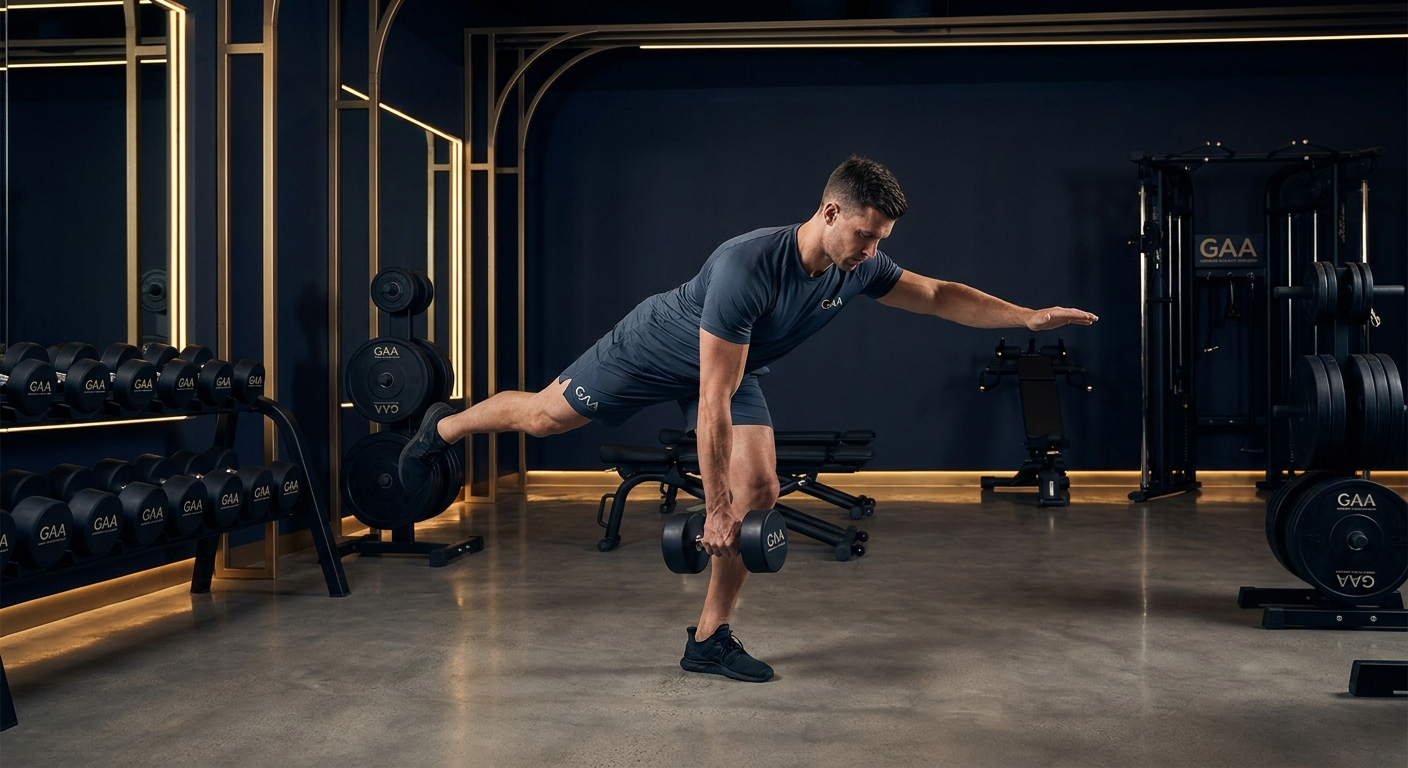
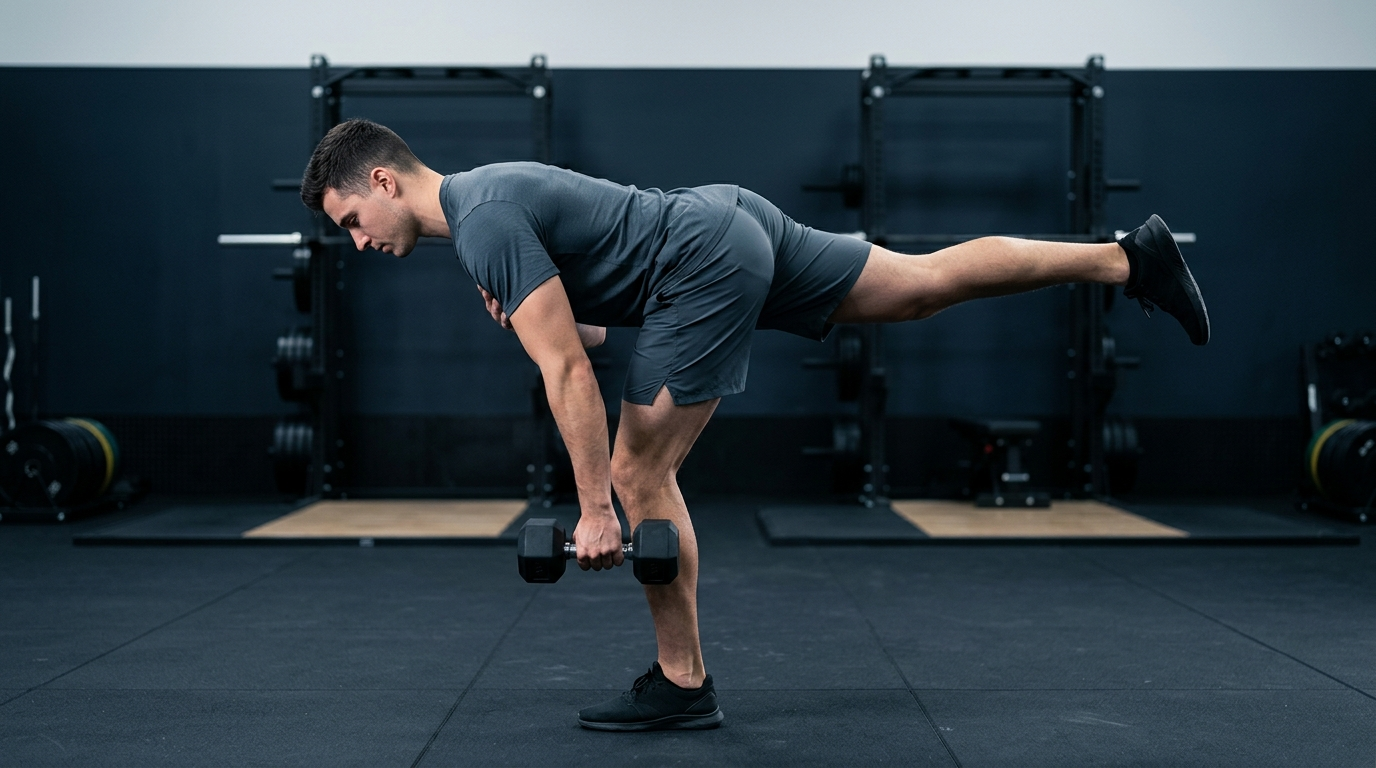
feat(exercise-media): roll out batch 7 Forge Athletic photography for hip thrusts, lat pulldowns, tricep pushdowns, SL RDLs, and prone cobras

diff --git a/lib/nasm-generated-images.ts b/lib/nasm-generated-images.ts
@@ -56,7 +56,7 @@ export const VERIFIED_GAA_EXERCISE_IMAGES: Record<string, string> = {
   "tuck jump": "https://img.youtube.com/vi/-bnJGikRGsM/hqdefault.jpg",
   "self myofascial release smr hamstrings": "https://img.youtube.com/vi/_M29fhv3LoI/hqdefault.jpg",
   "push up plus": "https://img.youtube.com/vi/qw-9P3R37vU/hqdefault.jpg",
-  "single leg romanian deadlift": "https://img.youtube.com/vi/6pEL3KxnlEo/hqdefault.jpg",
+  "single leg romanian deadlift": "/images/exercises/single-leg-romanian-deadlift.jpg",
   "self myofascial release smr piriformis": "https://img.youtube.com/vi/XS5hY6vBi6g/hqdefault.jpg",
   "single leg throw and catch transverse 1": "https://img.youtube.com/vi/w1shWW8WCN0/hqdefault.jpg",
   "self myofascial release smr peroneals": "https://img.youtube.com/vi/o0sqnX6FMzk/hqdefault.jpg",
@@ -163,7 +163,10 @@ export const VERIFIED_GAA_EXERCISE_IMAGES: Record<string, string> = {
   "single leg romanian deadlift curl to overhead press": "https://img.youtube.com/vi/CqLKOZCOFLU/hqdefault.jpg",
   "dumbbell combination curl": "https://img.youtube.com/vi/5l9fg7Cml0Y/hqdefault.jpg",
   "quadruped march": "https://img.youtube.com/vi/-atsQczv7N4/hqdefault.jpg",
-  "floor prone cobra": "https://img.youtube.com/vi/keErJXdp2lE/hqdefault.jpg",
+  "floor prone cobra": "/images/exercises/floor-prone-cobra.jpg",
+  "barbell hip thrust": "/images/exercises/barbell-hip-thrust.jpg",
+  "lat pulldown": "/images/exercises/lat-pulldown.jpg",
+  "triceps pushdown": "/images/exercises/triceps-pushdown.jpg",
   "single leg balance reach multiplanar": "https://img.youtube.com/vi/Mo4P9Y_AQt8/hqdefault.jpg",
   "ball crunch": "https://img.youtube.com/vi/QFLftqPWjoI/hqdefault.jpg",
   "hammer curl to lateral raise": "https://img.youtube.com/vi/4P6tmzTV01A/hqdefault.jpg",
@@ -461,6 +464,14 @@ const EXERCISE_ALIAS_MAP: Record<string, string> = {
   'single leg glute bridge': 'single leg floor bridge',
   'band bodyweight wall slides': 'activation ball prone shoulder press',
   'wall slides': 'activation ball prone shoulder press',
+  'hip thrust': 'barbell hip thrust',
+  'cable lat pulldown': 'lat pulldown',
+  'cable triceps pushdown': 'triceps pushdown',
+  'cable pushdown': 'triceps pushdown',
+  'tricep pushdown': 'triceps pushdown',
+  'prone cobra': 'floor prone cobra',
+  'single leg rdl': 'single leg romanian deadlift',
+  'sl rdl': 'single leg romanian deadlift',
 }
 
 const GAA_IMAGE_CACHE = new Map<string, string | null>()

diff --git a/lib/clinical-kinetic-warmup.test.ts b/lib/clinical-kinetic-warmup.test.ts
@@ -45,7 +45,7 @@ describe('Clinical Kinetic Warmup & OHSA Integration', () => {
     expect(resolveGaaExerciseImage('Static Standing TFL / ITB Stretch')).toBe('https://img.youtube.com/vi/h_8VHKvi1zo/hqdefault.jpg')
 
     // Warmup Activate & Integrate
-    expect(resolveGaaExerciseImage('Glute Bridge & Floor Prone Cobra')).toBe('https://img.youtube.com/vi/keErJXdp2lE/hqdefault.jpg')
+    expect(resolveGaaExerciseImage('Glute Bridge & Floor Prone Cobra')).toBe('/images/exercises/floor-prone-cobra.jpg')
     expect(resolveGaaExerciseImage('Squat to Scaption / Multi-Planar Reach')).toBe('/images/exercises/squat-to-overhead-reach.jpg')
     expect(resolveGaaExerciseImage('Isolated Anterior Tibialis Dorsiflexion')).toBe('https://img.youtube.com/vi/CeFbXhifvvA/hqdefault.jpg')
     expect(resolveGaaExerciseImage('Side-Lying Clamshells with Band')).toBe('/images/exercises/clamshells.jpg')
